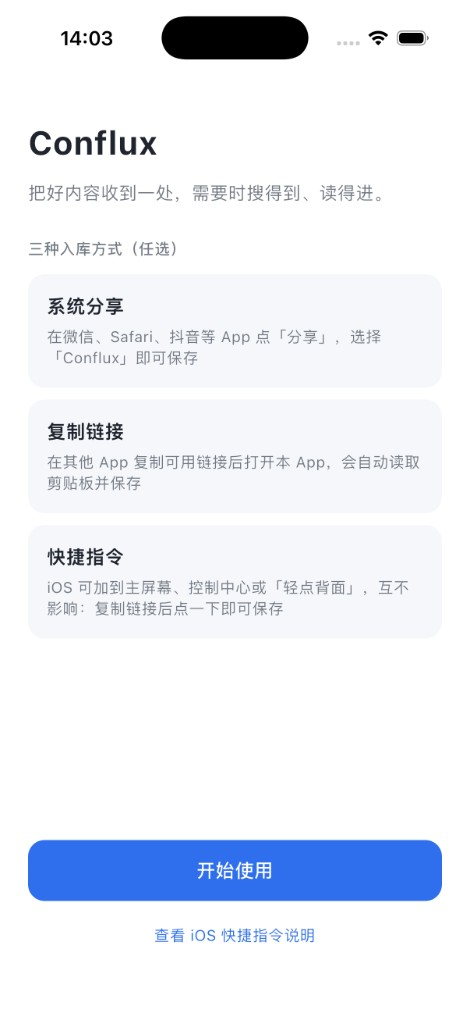
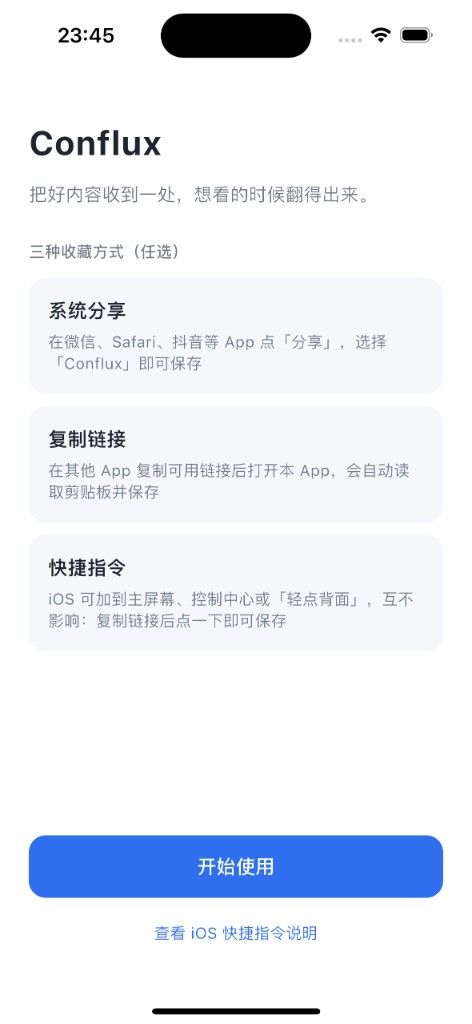
feat: 官网更新

diff --git a/website/index.html b/website/index.html
@@ -38,7 +38,7 @@
       <div class="inner">
         <div class="copy">
           <h2>一键收</h2>
-          <p>刷到好内容，分享一下就进来。不用复制、粘贴、再确认。</p>
+          <p>抖音、微信、小红书、B站<br />好内容一键汇总收藏</p>
         </div>
         <figure class="phone">
           <span class="phone-btn silent" aria-hidden="true"></span>
@@ -46,7 +46,7 @@
           <span class="phone-btn vol-down" aria-hidden="true"></span>
           <span class="phone-btn power" aria-hidden="true"></span>
           <div class="phone-screen">
-            <img src="assets/capture.png" width="470" height="1024" alt="三种入库方式：系统分享、复制链接、快捷指令" />
+            <img src="assets/capture.png" width="472" height="1024" alt="三种收藏方式：系统分享、复制链接、快捷指令" />
           </div>
         </figure>
       </div>
@@ -56,7 +56,7 @@
       <div class="inner flip">
         <div class="copy">
           <h2>稍后看</h2>
-          <p>未读、标注、最近阅读。回来就能接着看。</p>
+          <p>刷到不想当下看的<br />先收着，有空再看</p>
         </div>
         <figure class="phone">
           <span class="phone-btn silent" aria-hidden="true"></span>
@@ -74,7 +74,7 @@
       <div class="inner">
         <div class="copy">
           <h2>容易读</h2>
-          <p>不是一串裸链。标题、封面、正文都在，打开就能看。</p>
+          <p>正文与插图按原文排开<br />标注高亮，随时重温</p>
         </div>
         <figure class="phone">
           <span class="phone-btn silent" aria-hidden="true"></span>
@@ -91,8 +91,8 @@
     <section class="block wash">
       <div class="inner flip">
         <div class="copy">
-          <h2>理得清</h2>
-          <p>收藏夹、标签、系统分类。以后找得到。</p>
+          <h2>好找回</h2>
+          <p>未读、星标、收藏夹、标签<br />好内容有处可放</p>
         </div>
         <figure class="phone">
           <span class="phone-btn silent" aria-hidden="true"></span>
